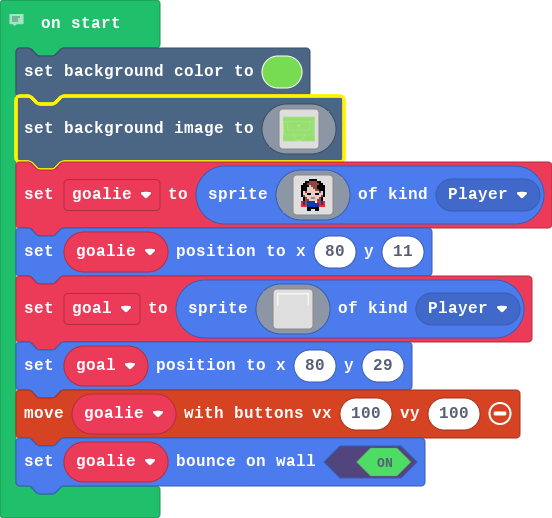
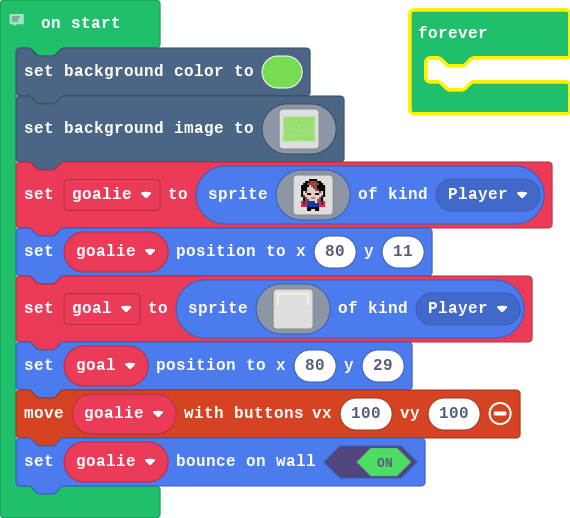
Update main.blocks, main.ts

diff --git a/main.ts b/main.ts
@@ -201,3 +201,6 @@ let goal = sprites.create(img`
 goal.setPosition(80, 29)
 controller.moveSprite(goalie, 100, 100)
 goalie.setBounceOnWall(true)
+forever(function () {
+	
+})
